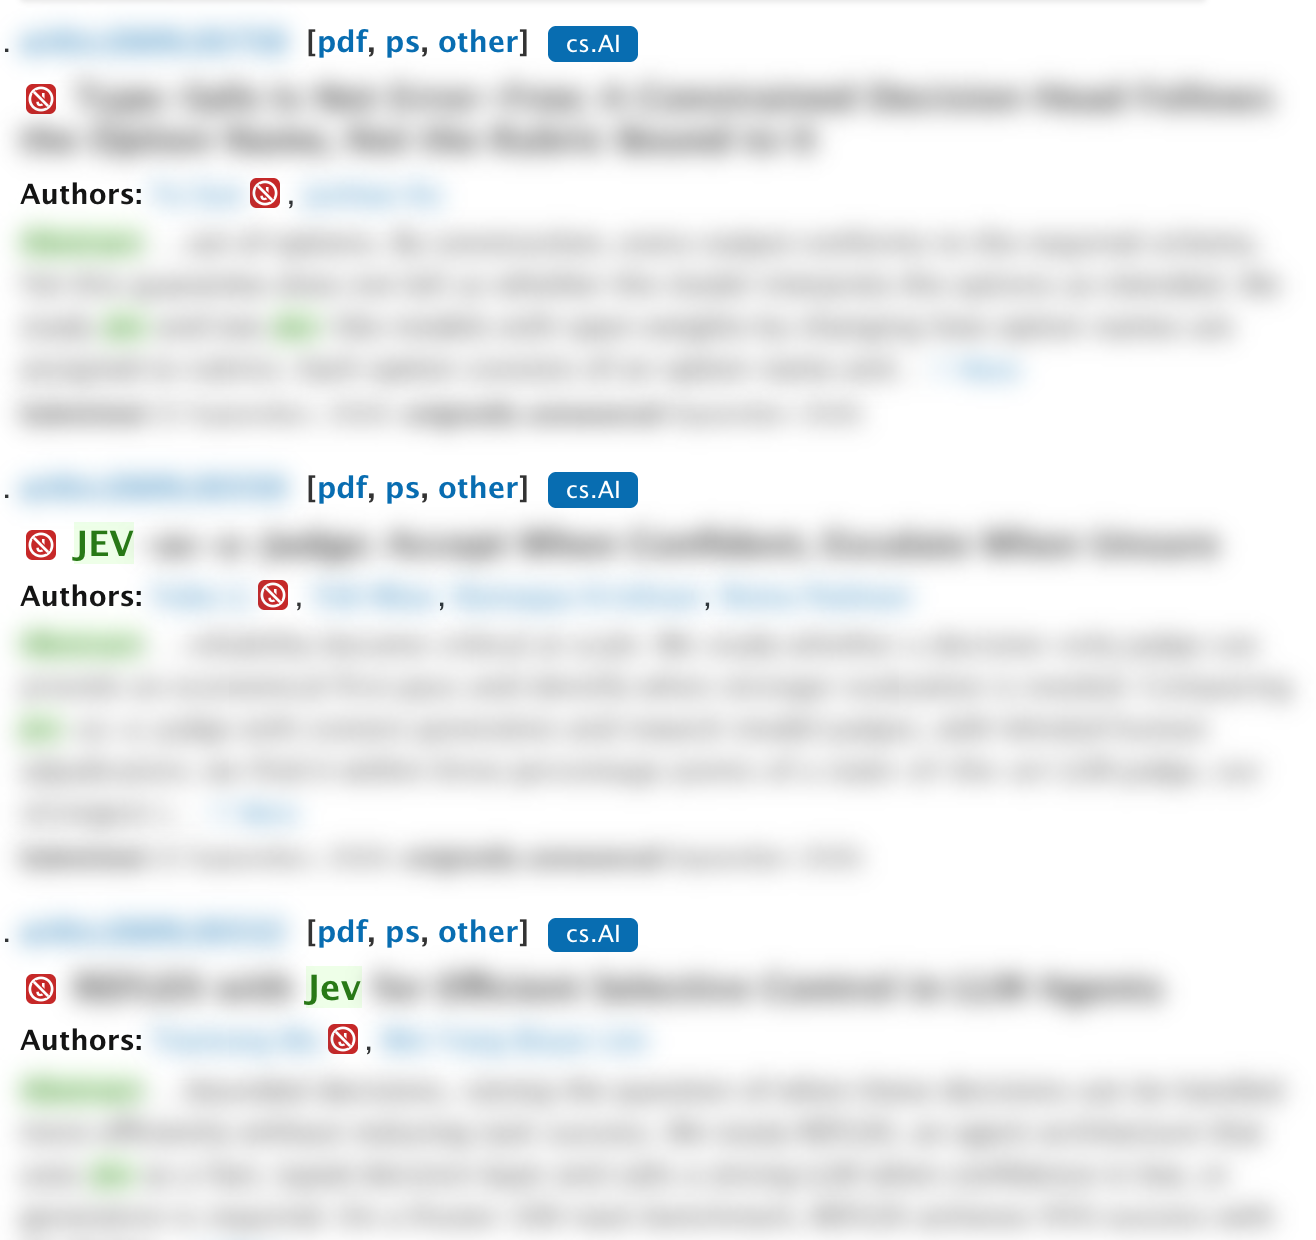
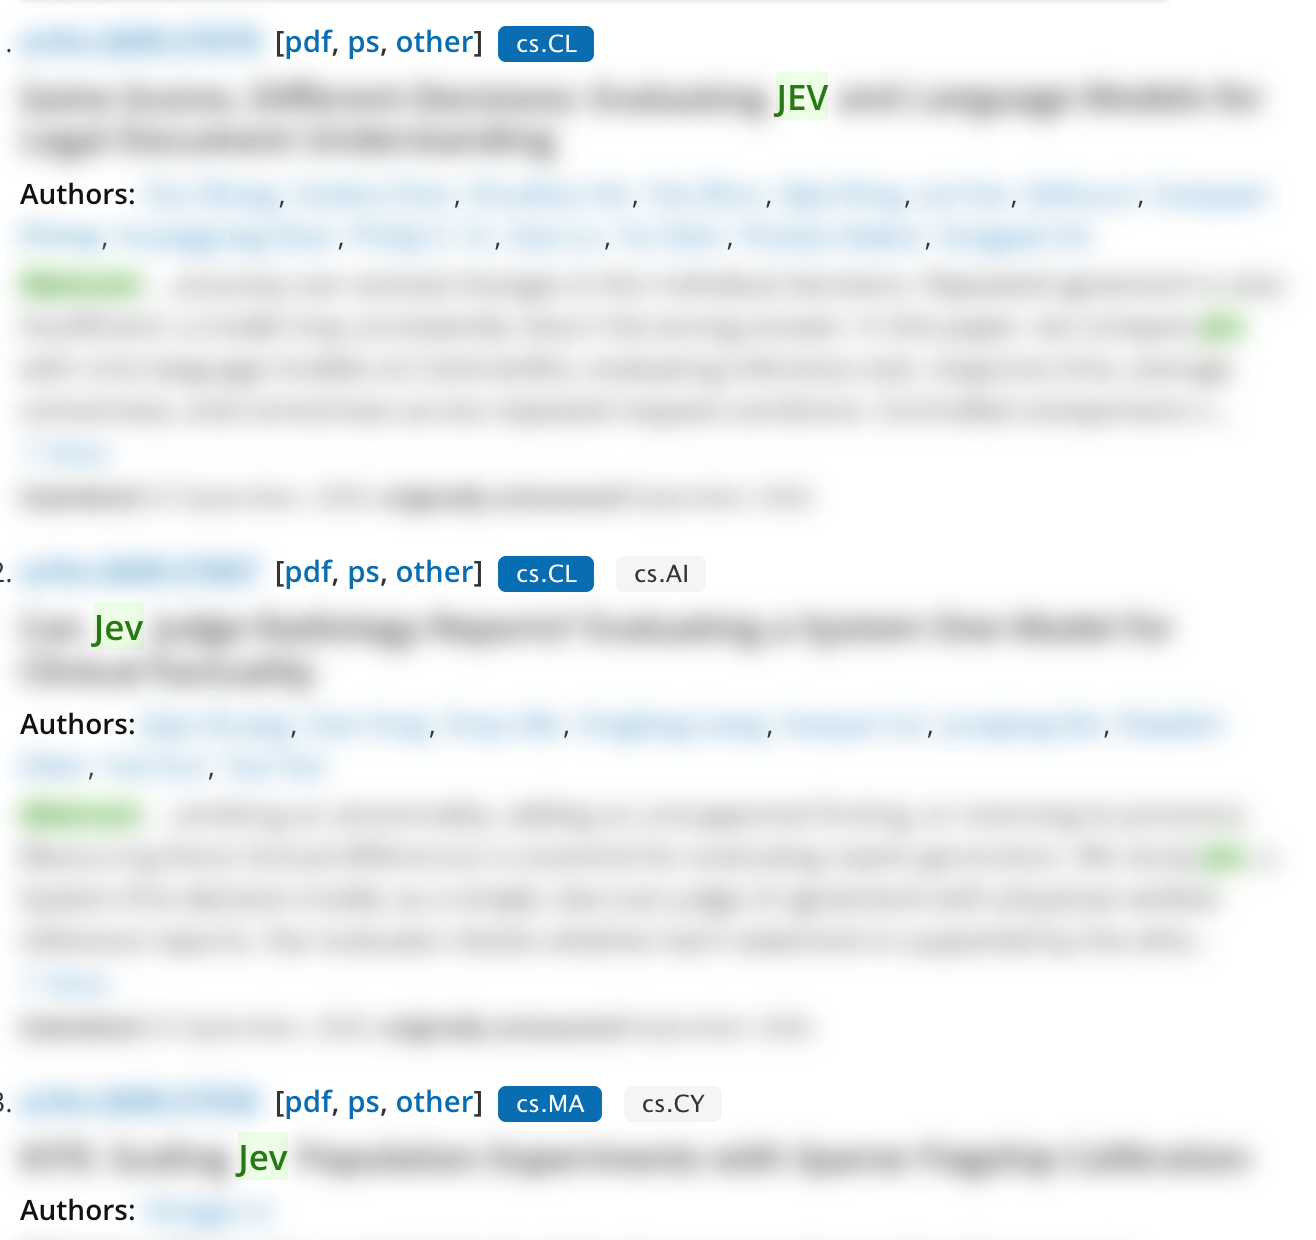
v0.0.2: neutral wording
Describe listed papers as fast-follow papers (published within weeks of a
model's release) instead of loaded terms, in the READMEs, ranking page,
extension strings and manifest.

diff --git a/site/index.html b/site/index.html
@@ -4,7 +4,7 @@
 <meta charset="utf-8">
 <meta name="viewport" content="width=device-width, initial-scale=1">
 <title>BanJev Ranking</title>
-<meta name="description" content="Authors of Jev bandwagon papers on arXiv, ranked by author-position-weighted paper count.">
+<meta name="description" content="Authors of papers published within weeks of Jev's release, ranked by a position- and time-weighted score.">
 <link rel="icon" href="logo.png">
 <style>
   :root {
@@ -118,7 +118,7 @@
 const I18N = {
   en: {
     tagline: 'Save time reading papers. Save tokens reading papers.',
-    rule: '<b>Not about Jev.</b> Jev is where we noticed the pattern: within days of a model going viral, a batch of papers named after it appears on arXiv. A badge means "rushed a paper out to ride the trend", which is a reading-priority signal, not a judgment of Jev or of any single paper.<br><br>Papers: arXiv submissions since <b>2026-09-17</b> (the day Jev went viral) that mention Jev, plus <a href="https://github.com/Ironieser/banjev/blob/main/data/manual.json">manual curation</a>. ' +
+    rule: '<b>Not about Jev.</b> Jev is where we noticed the pattern: within days of a model going viral, a batch of papers named after it appears on arXiv. A badge means "published a paper within weeks of the release". It is a reading-priority signal, not a judgment of Jev or of any single paper.<br><br>Papers: arXiv submissions since <b>2026-09-17</b> (the day Jev went viral) that mention Jev, plus <a href="https://github.com/Ironieser/banjev/blob/main/data/manual.json">manual curation</a>. ' +
       'Score: each paper adds <b>author-position weight × time weight</b>. Position: 1st <b>1</b>, 2nd <b>0.5</b>, 3rd <b>0.25</b>, halving after that. ' +
       'Time (weeks after the release to the arXiv submission): week 1 <b>×2</b>, week 2 <b>×1</b>, week 3 <b>×0.5</b>, week 4 <b>×0.25</b>, later <b>×0</b>, since about a month is a normal research pace. ' +
       'Authors with a total of <b>≥ 1</b> are banned. Updated every 6 hours. <a href="https://github.com/Ironieser/banjev#why-time-decay">Why time decay?</a>',
@@ -132,7 +132,7 @@ const I18N = {
   },
   zh: {
     tagline: '节约读论文时间，节约读论文的 token。',
-    rule: '<b>这不是针对 Jev。</b>Jev 只是我们观察到这种现象的地方：一个模型爆火后没几天，arXiv 上就冒出一批以它命名的论文。标记的意思是“赶着发论文蹭热点”，是阅读优先级信号，不评价 Jev，也不评价任何一篇具体论文。<br><br>论文来源：2026-09-17（Jev 爆火之日）之后提交到 arXiv、提到 Jev 的论文，加上<a href="https://github.com/Ironieser/banjev/blob/main/data/manual.json">人工维护名单</a>。' +
+    rule: '<b>这不是针对 Jev。</b>Jev 只是我们观察到这种现象的地方：一个模型爆火后没几天，arXiv 上就冒出一批以它命名的论文。标记的意思是“在发布后几周内发了论文”，是阅读优先级信号，不评价 Jev，也不评价任何一篇具体论文。<br><br>论文来源：2026-09-17（Jev 爆火之日）之后提交到 arXiv、提到 Jev 的论文，加上<a href="https://github.com/Ironieser/banjev/blob/main/data/manual.json">人工维护名单</a>。' +
       '计分：每篇论文记 <b>作者位次权重 × 时间权重</b>。位次：一作 <b>1</b>，二作 <b>0.5</b>，三作 <b>0.25</b>，之后依次减半。' +
       '时间（从模型发布到论文提交 arXiv 隔了几周）：第 1 周 <b>×2</b>，第 2 周 <b>×1</b>，第 3 周 <b>×0.5</b>，第 4 周 <b>×0.25</b>，之后 <b>×0</b>，因为一个月左右是正常的研究节奏。' +
       '总分 <b>≥ 1</b> 即 ban。每 6 小时自动更新。<a href="https://github.com/Ironieser/banjev/blob/main/README_CN.md#为什么要按时间衰减">为什么按时间衰减？</a>',

diff --git a/src/content/common.js b/src/content/common.js
@@ -21,7 +21,7 @@
     '<line x1="26" y1="26" x2="74" y2="74" stroke="#fff" stroke-width="9"/>' +
     '</svg>';
   const WHY = {
-    paper: 'This paper is on the Jev bandwagon list.',
+    paper: 'Listed: published within weeks of Jev\'s release.',
     confirmed: 'Identity verified: ',
     name: 'Name match only. This may be a different person with the same name. ',
   };
@@ -95,7 +95,7 @@
     const pop = el('div', { class: 'banjev-pop', 'data-banjev': '' });
     const head =
       result.level === 'paper'
-        ? 'Jev bandwagon paper'
+        ? 'Listed paper: published within weeks of Jev\'s release'
         : result.level === 'confirmed'
           ? 'Banned author (' + result.reason + ')'
           : 'Possibly a banned author (' + result.reason + '). This could be someone else with the same name.';

diff --git a/src/lib/core.js b/src/lib/core.js
@@ -6,7 +6,7 @@
   'use strict';
 
   // Jev went public on 2026-09-17 (first awesome-jev commit). Only papers
-  // submitted on or after this date count as "Jev bandwagon" papers.
+  // submitted on or after this date are candidates ("fast-follow" papers).
   const JEV_EPOCH = '2026-09-17';
 
   const ARXIV_QUERY =
@@ -112,7 +112,7 @@
     return [...ids];
   }
 
-  // Keep only bandwagon papers: submitted on/after the Jev epoch.
+  // Keep only fast-follow candidates: submitted on/after the Jev epoch.
   function filterPapers(papers) {
     return papers.filter((p) => p.id && (!p.published || p.published >= JEV_EPOCH));
   }

diff --git a/README.md b/README.md
@@ -8,7 +8,7 @@ English · [中文](README_CN.md) · [Ranking page](https://ironieser.github.io/
 
 ![arXiv search with BanJev badges](docs/arxiv.png)
 
-BanJev is a Chrome extension (Manifest V3) that puts the BanJev logo <img src="icons/16.png" width="14" alt="logo"> as a small badge on **hype-chasing papers** and their authors on **arXiv** and **Google Scholar**, so you can deprioritize them when you triage what to read, or what to feed an LLM.
+BanJev is a Chrome extension (Manifest V3) that puts the BanJev logo <img src="icons/16.png" width="14" alt="logo"> as a small badge on **fast-follow papers** (papers that appear within weeks of a model going viral) and their authors on **arXiv** and **Google Scholar**, so you can deprioritize them when you triage what to read, or what to feed an LLM.
 
 ## Why "BanJev"? This is not about Jev
 
@@ -16,10 +16,10 @@ BanJev is **not** aimed at Jev, TypeSafe AI, or anyone building on Jev. Many sol
 
 1. **2026-09-17**: Jev (TypeSafe AI's System One model) goes viral.
 2. **2 to 5 days later**: a batch of arXiv preprints shows up with "Jev" in the title: "X with Jev", "Jev for Y", "Jev-as-a-Z".
-3. Careful research, with experiments, baselines, ablations and writing, usually takes weeks to months. A paper about a model that was released only days earlier was very likely **written to ride the trend**. The goal is to be early, not to answer a real question.
-4. A reader has limited attention and a limited token budget. How someone behaves in a hype cycle is a cheap, useful signal. If an author rushed out a trend-riding paper, you can reasonably put **their** papers lower in your reading queue.
+3. Careful research, with experiments, baselines, ablations and writing, usually takes weeks to months. A paper about a model released only days earlier has had very little time for that work.
+4. A reader has limited attention and a limited token budget. How soon after a release someone publishes is a cheap, useful signal. If an author put out a paper within days of a release, you can reasonably move **their** papers lower in your reading queue.
 
-So a badge means exactly one thing: **this person rushed a paper onto arXiv to ride the Jev wave.** It says nothing about Jev, and it is not a verdict on any specific paper. It is a reading-priority filter.
+So a badge means exactly one thing: **this person published a Jev-titled paper on arXiv within weeks of Jev's release.** It says nothing about Jev, and it is not a verdict on any specific paper. It is a reading-priority filter.
 
 Why the first author carries the most weight: the first author is usually the one who decided to write the paper and did the work. A 5th author may have simply lent their name. That's why the score weights author position (below).
 
@@ -133,7 +133,7 @@ v0.0.1 has the basics. Planned next (PRs welcome):
 
 - [ ] **More hype keywords**: configure several trend waves (keyword + start date) instead of one hard-coded "Jev" search, so the same pipeline can follow the next viral model
 - [ ] **Easier author and paper submissions**: an issue form that turns "add this paper / this author / this Scholar profile" into a `manual.json` PR automatically
-- [ ] **Filtering with Jev**: ask Jev a `Noul` ("Is this paper mainly riding the launch hype rather than answering a research question?") per candidate paper, and use the probability to filter keyword hits and cut false positives
+- [ ] **Filtering with Jev**: ask Jev a `Noul` ("Is this paper mainly a quick response to the launch rather than an answer to a research question?") per candidate paper, and use the probability to filter keyword hits and cut false positives
 - [ ] **Better author identity**: use ORCID / Semantic Scholar / DBLP author IDs where available, and discover Scholar profiles automatically instead of by hand
 - [ ] **More sites**: Semantic Scholar, OpenReview, Hugging Face Papers, alphaXiv
 - [x] **Configurable scoring**: time decay, position weights and threshold are editable in the popup
